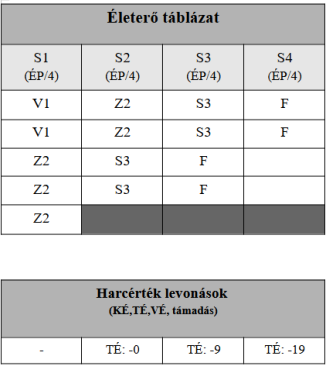
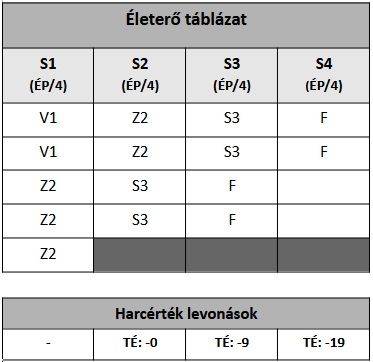
Életerő ábrák és doksijaik frissítése

diff --git a/md/061_03_sebesules.md b/md/061_03_sebesules.md
@@ -8,7 +8,7 @@ Mikor a karaktert sebesülés éri, elkezdi bejelölni az Életerő táblázatba
 
 Hasznos segítség lehet, ha sérüléskor nem beikszeljük az egyes négyzeteket, hanem a sebesülés „sorszámát” (hányadik seb a harc során) és annak jellegét (S,V,Z) írjuk beléjük (Szúró,Vágó,Zúzó), megkönnyítve a dolgunkat: rögtön látjuk, hány és mekkora sebünk van. (Az `FP` sérülések mezőbe pedig „`F`” betűt írjunk). Példa: „`Z2`” jelölés 4 db rubrikában: ez a karakter második sebe és egy `4 ÉP`-s zúzott sebet jelöl.
 
-![](images/02_eletero_tablazat_harcertek_levonassal_small.png)
+![](images/02_eletero_tablazat_harcertek_levonassal.png)
 
 Az első (`S1`) kategóriában lévő karaktert még nem sújtják negatív módosítók, sérülése – számára – olyan könnyű, ami nem akadályozza a harcban.
 

diff --git a/md/017_01_ep_kt.md b/md/017_01_ep_kt.md
@@ -6,7 +6,7 @@ Minden élőlény a benne keringő testi és lelki energiának, az életerőnek 
 ÉP = 12 + (Edzettség x 2)
 ```
 
-![](images/01_eletero_tablazat_small.png)
+![](images/01_eletero_tablazat.png)
 
 A karakter aktuális fizikai állapotát az Életerő Pontok (`ÉP`) száma határozza meg, melyeket `4` egészség kategória közt a táblázatban egyenlő arányban (`össz ÉP 1/4-e minden oszlopba`) osztunk el. Ha maradékos az osztás, akkor a maradékot balról jobbra osszuk el.
 
